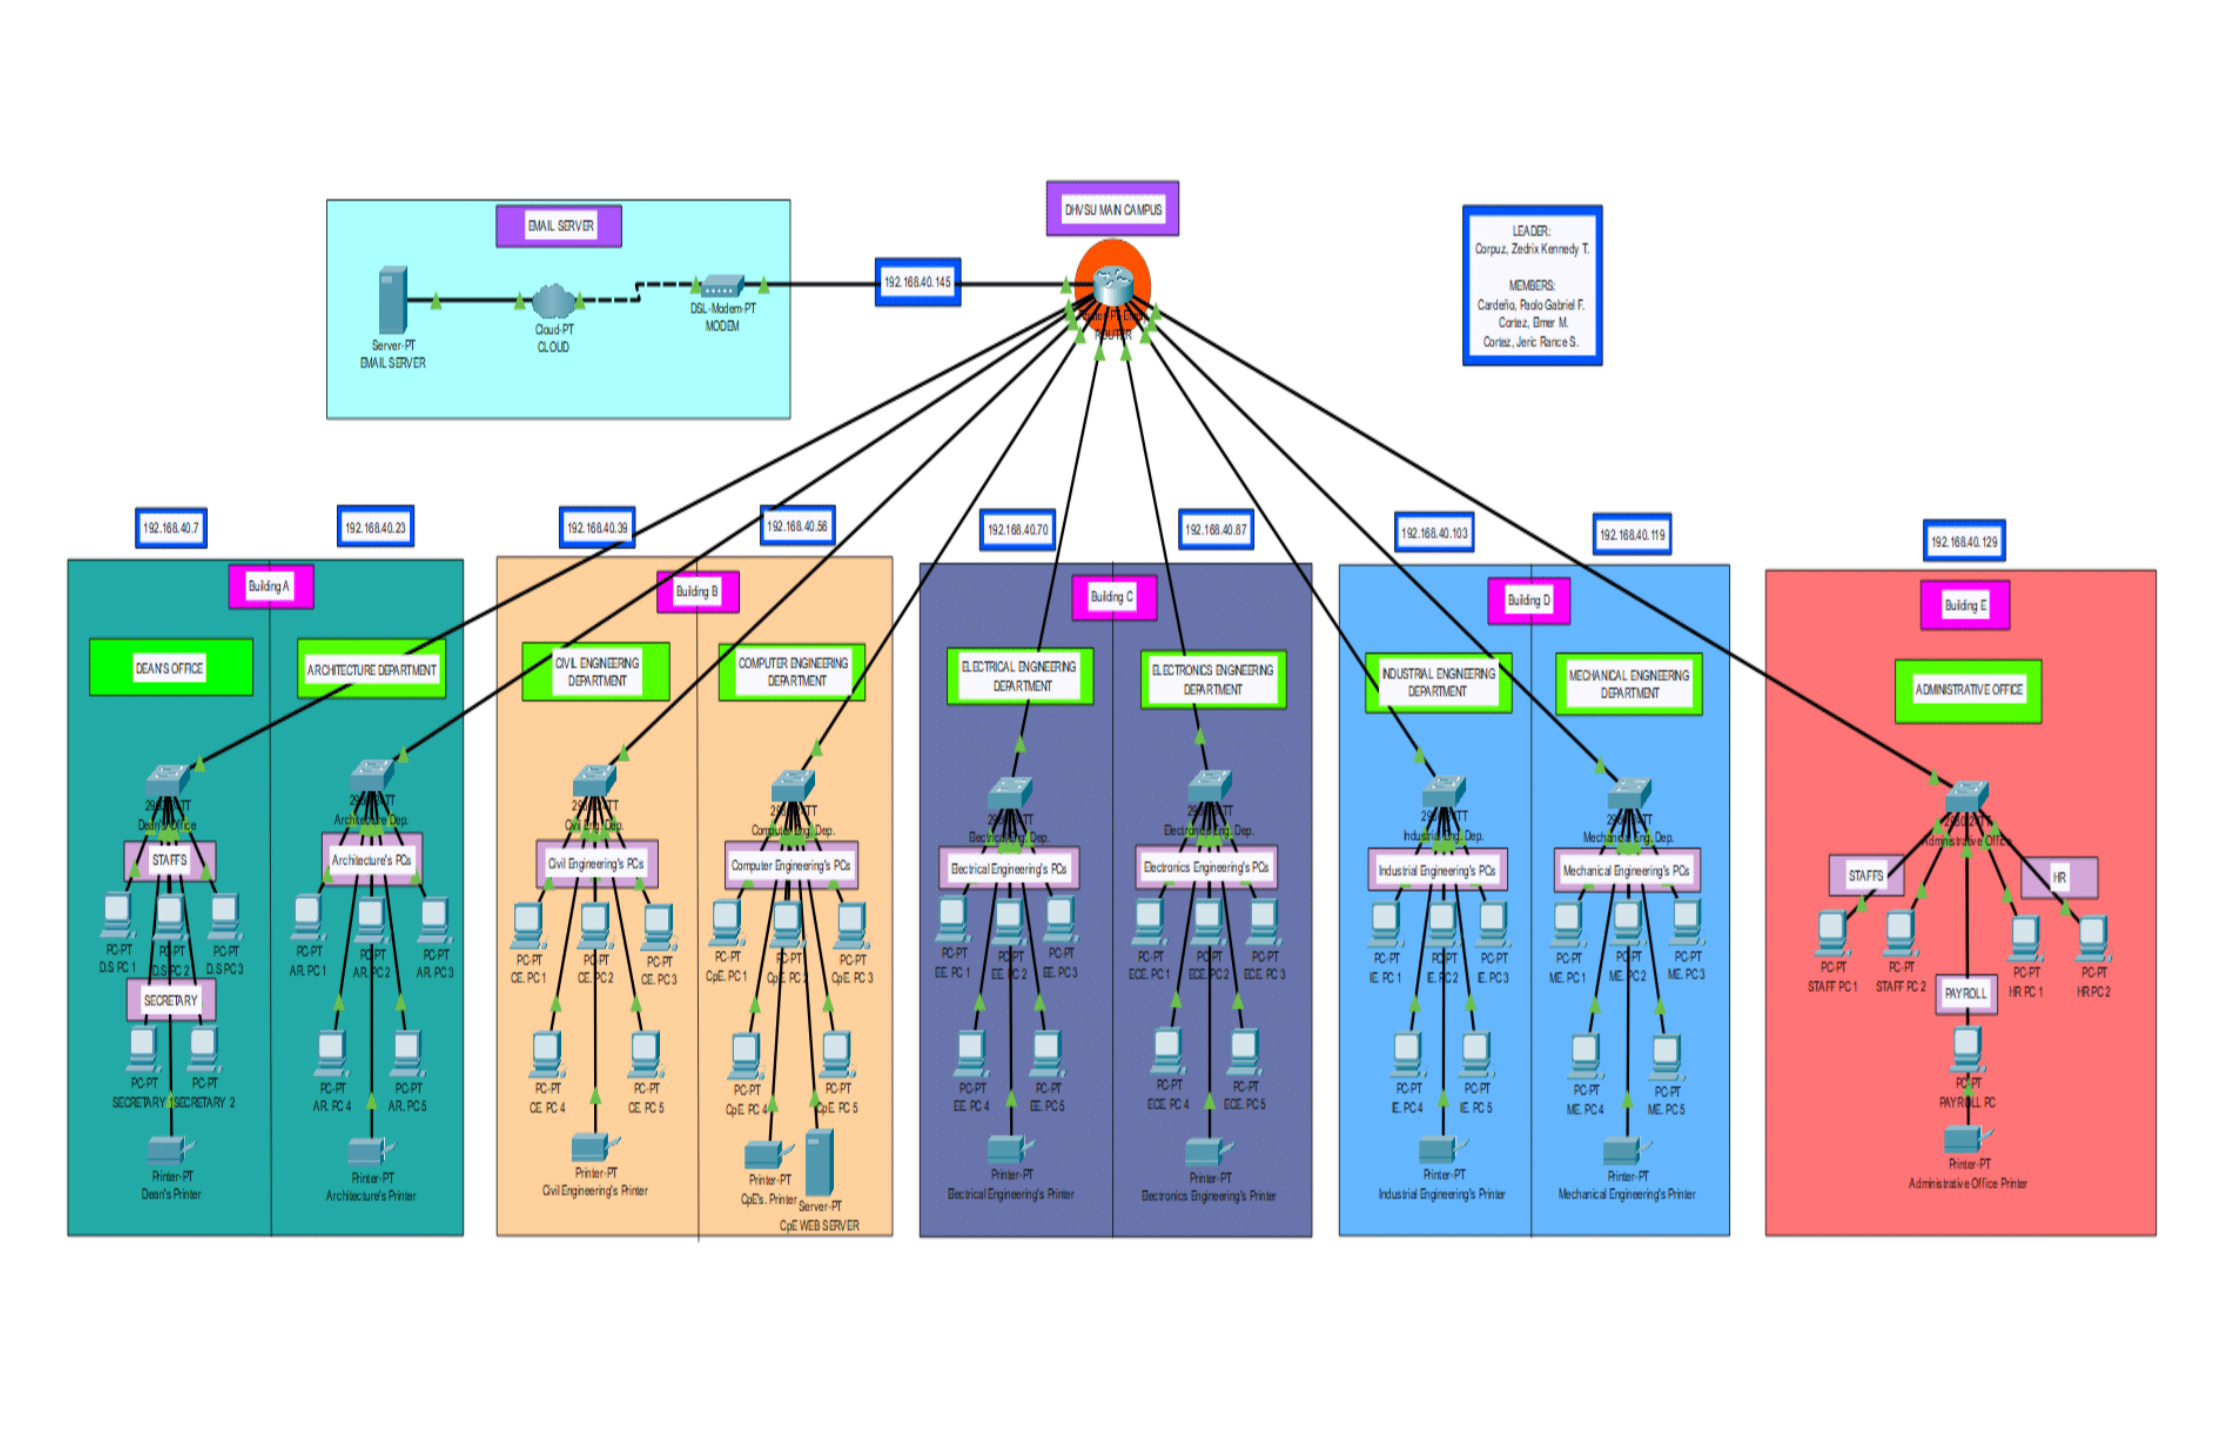
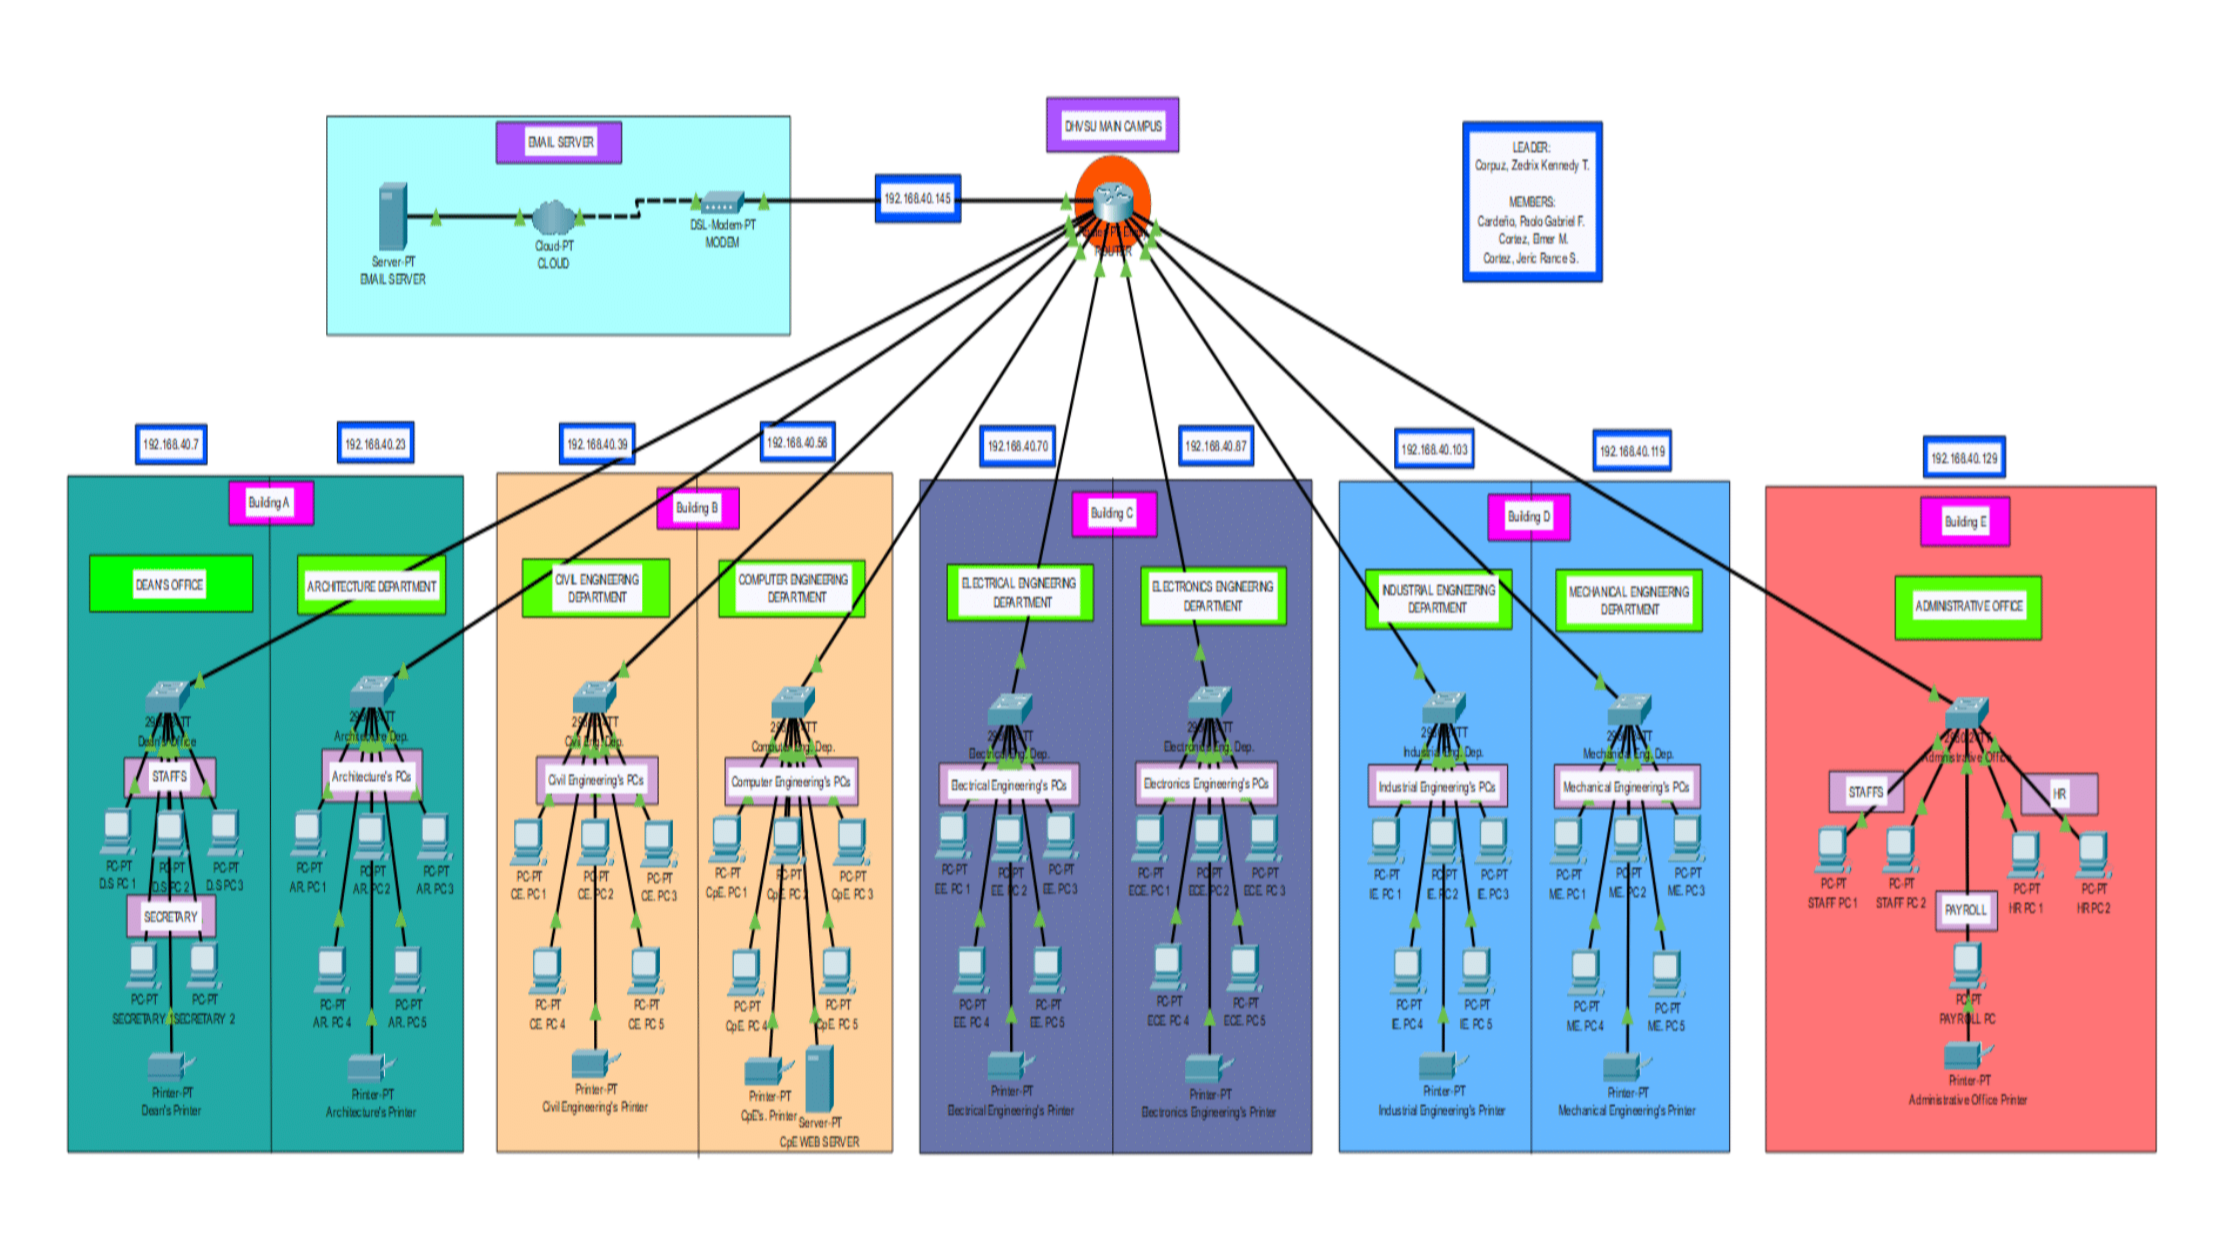
deploy

Changed region(s): [[0.031, 0.0623, 0.9919, 0.9345], [0.6509, 0.0935, 0.7439, 0.2804]]

diff --git a/index.html b/index.html
@@ -289,7 +289,7 @@
 
             <div class="details-container">
               <div class="article-container">
-                <img src="./assets/python-dsp.png" alt="Project 6" class="project-img" />
+                <img src="./assets/python-dsp-crop.png" alt="Project 6" class="project-img" />
               </div>
               <h2 class="experience-sub-title project-title">Python GUI DSP Application</h2>
               <div class="btn-container">
